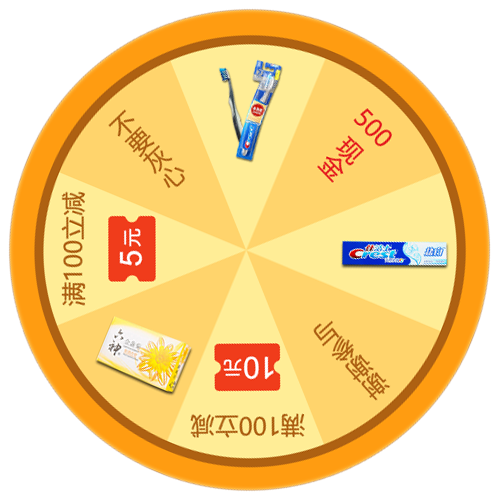
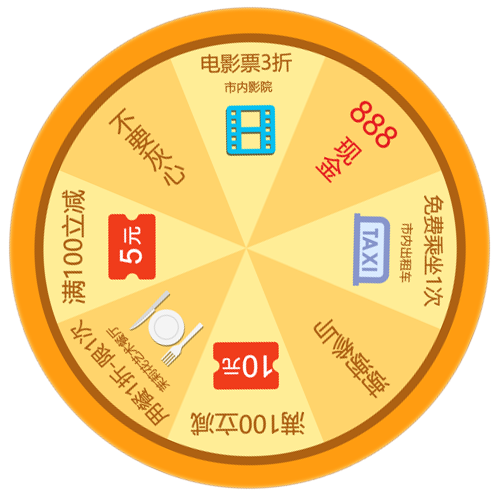
新增乘车优惠活动

diff --git a/rided.html b/rided.html
@@ -1,0 +1,39 @@
+<!DOCTYPE html>
+<html>
+
+	<head>
+		<meta charset="utf-8">
+		<meta content="initial-scale=1.0,maximum-scale=1.0,minimum-scale=1.0,user-scalable=no,width=device-width" name="viewport">
+		<title>乘车优惠</title>
+		<link rel="stylesheet" href="css/bootstrap.min.css" />
+		<link rel="stylesheet" type="text/css" href="css/media-100.css" />
+		<link rel="stylesheet" type="text/css" href="css/style.css" />
+		<script src="js/jquery-1.11.0.min.js" type="text/javascript" charset="utf-8"></script>
+
+	</head>
+
+	<body>
+		<div class="ride">
+
+			<div class="ride-title">
+				<h3>扫码时间：</h3>
+				<p>8月18日 11：58</p>
+			</div>
+			<div>
+				<img src="images/ride-ed.png" class="ride-ing"/>
+			</div>
+			<div class="ride-cont tac">
+				<h3>只有新用户才能享受本次优惠哟</h3>
+				<p><img src="images/ride-good.png"/></p>
+				<a href="index.html"><button class="btn  bg-fc3 mt-10 c-333">进入商城</button></a>
+				<div class="ride-off">
+					<h5 class="fl">本次活动提供方</h5>
+					<img src="images/ride-logo.png" class="fl"/>
+				</div>
+			</div>
+
+		</div>
+
+	</body>
+
+</html>

diff --git a/riding.html b/riding.html
@@ -1,0 +1,39 @@
+<!DOCTYPE html>
+<html>
+
+	<head>
+		<meta charset="utf-8">
+		<meta content="initial-scale=1.0,maximum-scale=1.0,minimum-scale=1.0,user-scalable=no,width=device-width" name="viewport">
+		<title>乘车优惠</title>
+		<link rel="stylesheet" href="css/bootstrap.min.css" />
+		<link rel="stylesheet" type="text/css" href="css/media-100.css" />
+		<link rel="stylesheet" type="text/css" href="css/style.css" />
+		<script src="js/jquery-1.11.0.min.js" type="text/javascript" charset="utf-8"></script>
+
+	</head>
+
+	<body>
+		<div class="ride">
+
+			<div class="ride-title">
+				<h3>扫码时间：</h3>
+				<p>8月18日 11：58</p>
+			</div>
+			<div>
+				<img src="images/ride-ing.png" class="ride-ing"/>
+			</div>
+			<div class="ride-cont tac">
+				<h3>您可以享受本次乘车免费</h3>
+				<p>点击抽取更多优惠</p>
+				<a href="index.html"><button class="btn  bg-fc3 mt-10 c-333">马上抽奖</button></a>
+				<div class="ride-off">
+					<h5 class="fl">本次活动提供方</h5>
+					<img src="images/ride-logo.png" class="fl"/>
+				</div>
+			</div>
+
+		</div>
+
+	</body>
+
+</html>

diff --git a/css/style.css b/css/style.css
@@ -4519,3 +4519,51 @@ a:hover, a:focus{
 
 
 /*星级详情结束*/
+/*乘车优惠开始*/
+.ride{
+	padding: 0.2rem;
+}
+.ride-title h3{
+	font-size: 0.156rem;
+}
+.ride-title p{
+	font-size: 0.187rem;
+}
+.ride-ing{
+	height: 1.6rem;
+	margin: 0.2rem auto;
+	display: block;
+}
+.ride-cont h3{
+	font-size: 0.187rem;
+}
+.ride-cont p{
+	margin-top: 0.9rem;
+	font-size: 0.125rem;
+}
+.ride-cont p img{
+	width: 1.4rem;
+}
+.ride-cont button{
+	width: 1.4rem;
+	height: 0.36rem;
+	box-shadow: 2px 2px 0px #aaa;
+	border: 1px solid #434343;
+	border-radius: 0;
+}
+.ride-off{
+	width: 1.7rem;
+	margin: 0 auto;
+	margin-top: 0.9rem;
+	height: 0.5rem;
+	line-height: 0.5rem;
+}
+.ride-off h5{
+	font-size: 0.125rem;
+	line-height: 0.3rem;
+}
+.ride-off img{
+	width: 0.8rem;
+	
+}
+/*乘车优惠結束*/
